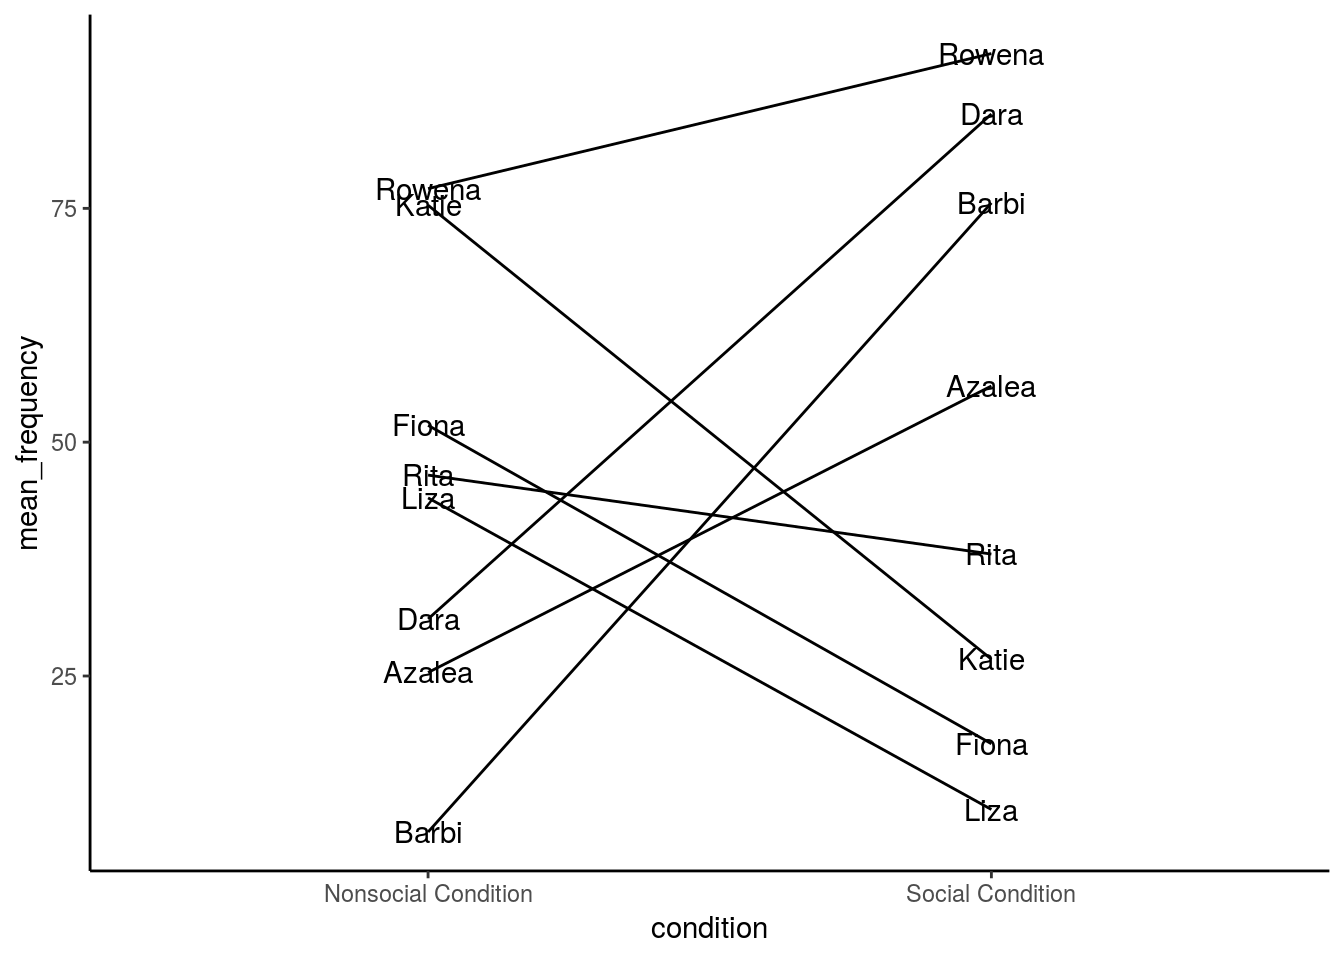
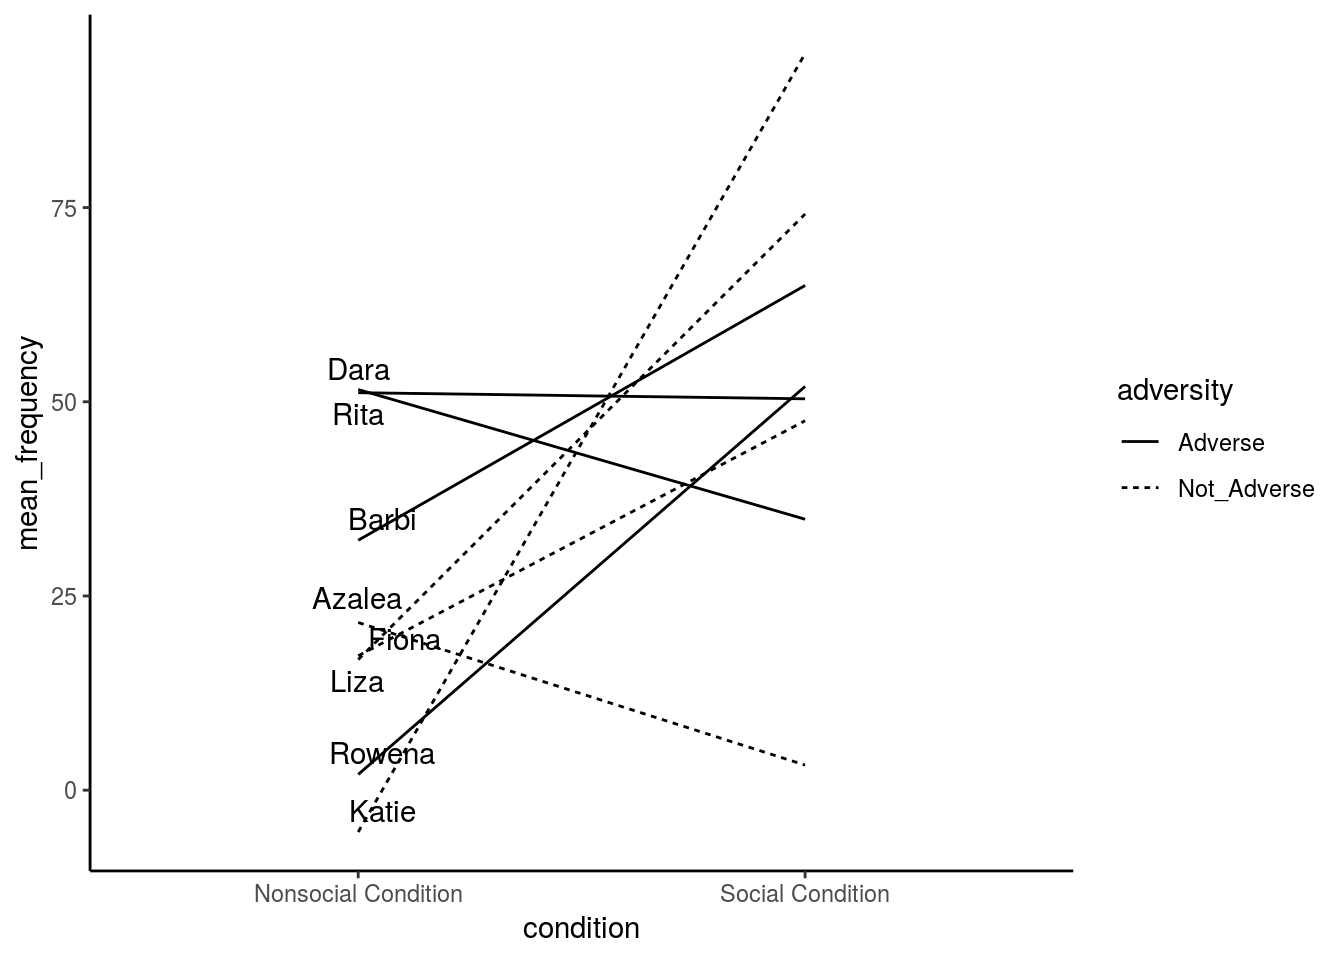
Figure 1 complete, downloaded package ggrepel to "cheat" with labels

diff --git a/docs/Plots.html b/docs/Plots.html
@@ -411,19 +411,21 @@ div.tocify {
 <div id="list-of-figures-to-reproduce" class="section level2">
 <h2>List of Figures to Reproduce</h2>
 <pre class="r"><code>#loading library to enable visualization of ggplot function use
-library(ggplot2)</code></pre>
+library(ggplot2)
+library(ggrepel)</code></pre>
 <div id="mean-frequency-of-risky-choices" class="section level3">
 <h3>Mean Frequency of Risky Choices</h3>
 <pre class="r"><code>names&lt;-rep(c(&quot;Dara&quot;,&quot;Rita&quot;,&quot;Liza&quot;, &quot;Azalea&quot;, &quot;Barbi&quot;,&quot;Rowena&quot;,&quot;Katie&quot;,&quot;Fiona&quot;), each=2)
+lnames&lt;-c(&quot;&quot;,&quot;Dara&quot;,&quot;&quot;,&quot;Rita&quot;,&quot;&quot;,&quot;Liza&quot;, &quot;&quot;,&quot;Azalea&quot;, &quot;&quot;,&quot;Barbi&quot;,&quot;&quot;,&quot;Rowena&quot;,&quot;&quot;,&quot;Katie&quot;,&quot;&quot;,&quot;Fiona&quot;)
 mean_frequency&lt;-rnorm(16,45,25)
 condition&lt;-rep(c(&quot;Social Condition&quot;,&quot;Nonsocial Condition&quot;),8)
 adversity&lt;-rep(c(&quot;Adverse&quot;,&quot;Not_Adverse&quot;),times=c(4,4))
 
-plot_df&lt;-data.frame(names,mean_frequency,condition)
+plot_df&lt;-data.frame(names,mean_frequency,adversity,condition)
 
 #print(plot_df)
 
-ggplot(plot_df, aes(condition,mean_frequency,group=names))+geom_line()+geom_text(label=names)+theme_classic()</code></pre>
+ggplot(plot_df, aes(condition,mean_frequency,group=names,linetype=adversity))+geom_line()+geom_text_repel(label=lnames, position = &quot;nudge&quot;)+theme_classic()</code></pre>
 <p><img src="Plots_files/figure-html/unnamed-chunk-2-1.png" width="672" /></p>
 </div>
 </div>
